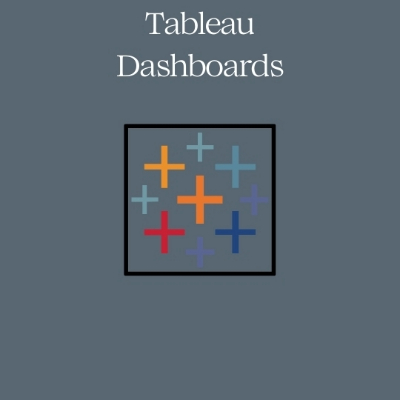
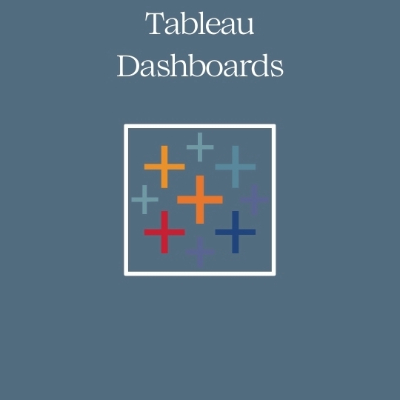
color update

Changed region(s): [[0.3, 0.3, 0.69, 0.69]]

diff --git a/src/scenes/Landing.jsx b/src/scenes/Landing.jsx
@@ -55,7 +55,7 @@ const Landing = ({ setSelectedPage }) => {
           </p>
 
           <p className="mt-10 mb-7 text-sm text-center md:text-start">
-          My name is Ethan Campbell, I am a Data Analyst/Business Analyst with a M.S in Data Analytics and Computational Social Science from the University of Massachusetts. To support the technical degree, I received a B.S in Business Administration from the University of Charleston, WV to expand my business mindset and bridge the gap between decision makers and analytical solutions. My expertise is in economics and banking. I am seeking to expand my knowledge in a diverse and creative company that pushes innovative unique solutions. I would love to get in touch and learn more about how we can work together. Below you can find my resume and contact information. 
+          My name is Ethan Campbell, I am a Data Analyst/Business Analyst with a M.S in Data Analytics and Computational Social Science from the University of Massachusetts. To support the technical degree, I received a B.S in Business Administration from the University of Charleston, WV to expand my business mindset and bridge the gap between decision makers and analytical solutions. My expertise is in economics and banking. I am seeking to expand my knowledge in a diverse and creative company that pushes innovative unique solutions. Below you can find my projects, skills, and contact information. 
           </p>
         </motion.div>
 

diff --git a/src/scenes/Projects.jsx b/src/scenes/Projects.jsx
@@ -110,7 +110,7 @@ const Projects = () => {
           {/* ROW 5 */}
           </a>
           <div
-            className="flex justify-center text-center items-center p-10 bg-blue5
+            className="flex justify-center text-center items-center p-10 bg-blue4
               max-w-[400px] max-h-[400px] text-2xl font-playfair font-semibold"
           >
             

diff --git a/src/scenes/Contact.jsx b/src/scenes/Contact.jsx
@@ -54,7 +54,7 @@ const Contact = () => {
           }}
           className="basis-1/2 flex justify-center"
         >
-          <img src="../assets/contact-image.jpeg" alt="contact" />
+          <img src="../assets/contact-image.jpg" alt="contact" />
         </motion.div>
 
         <motion.div
